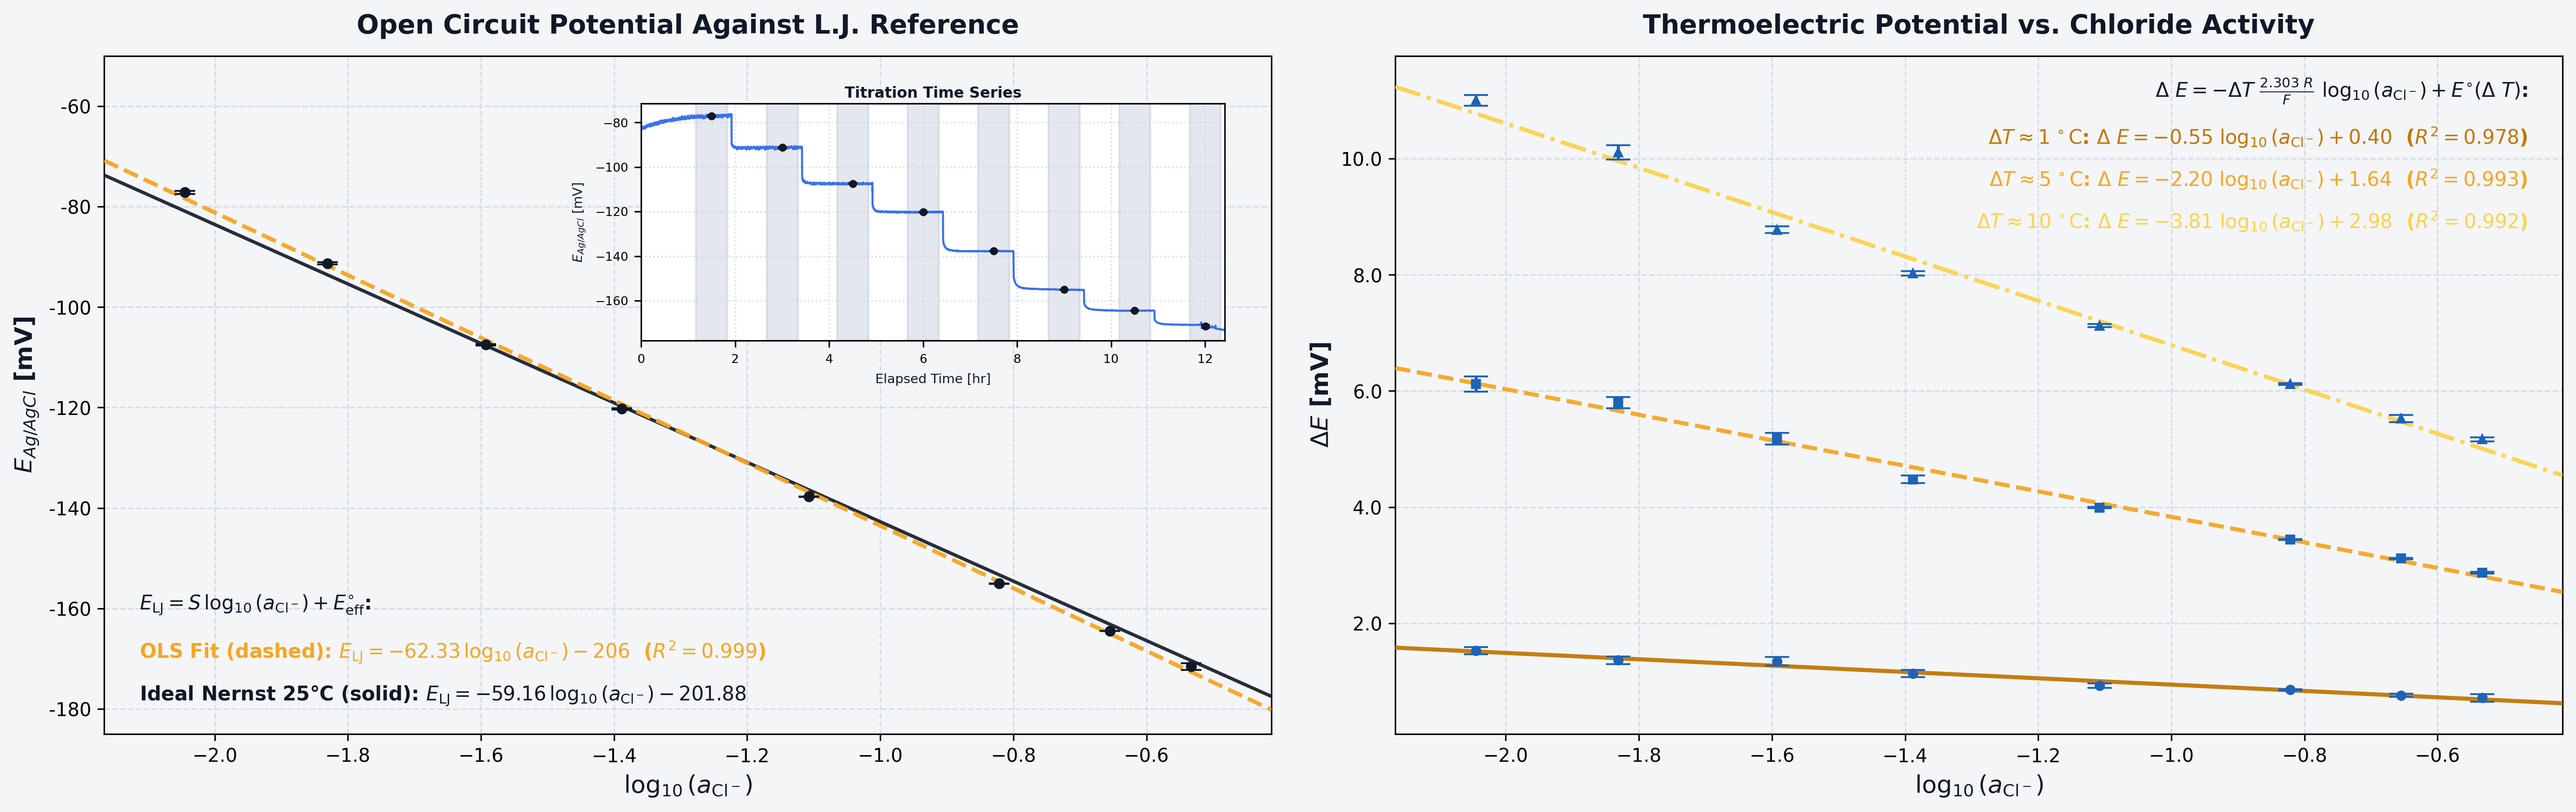
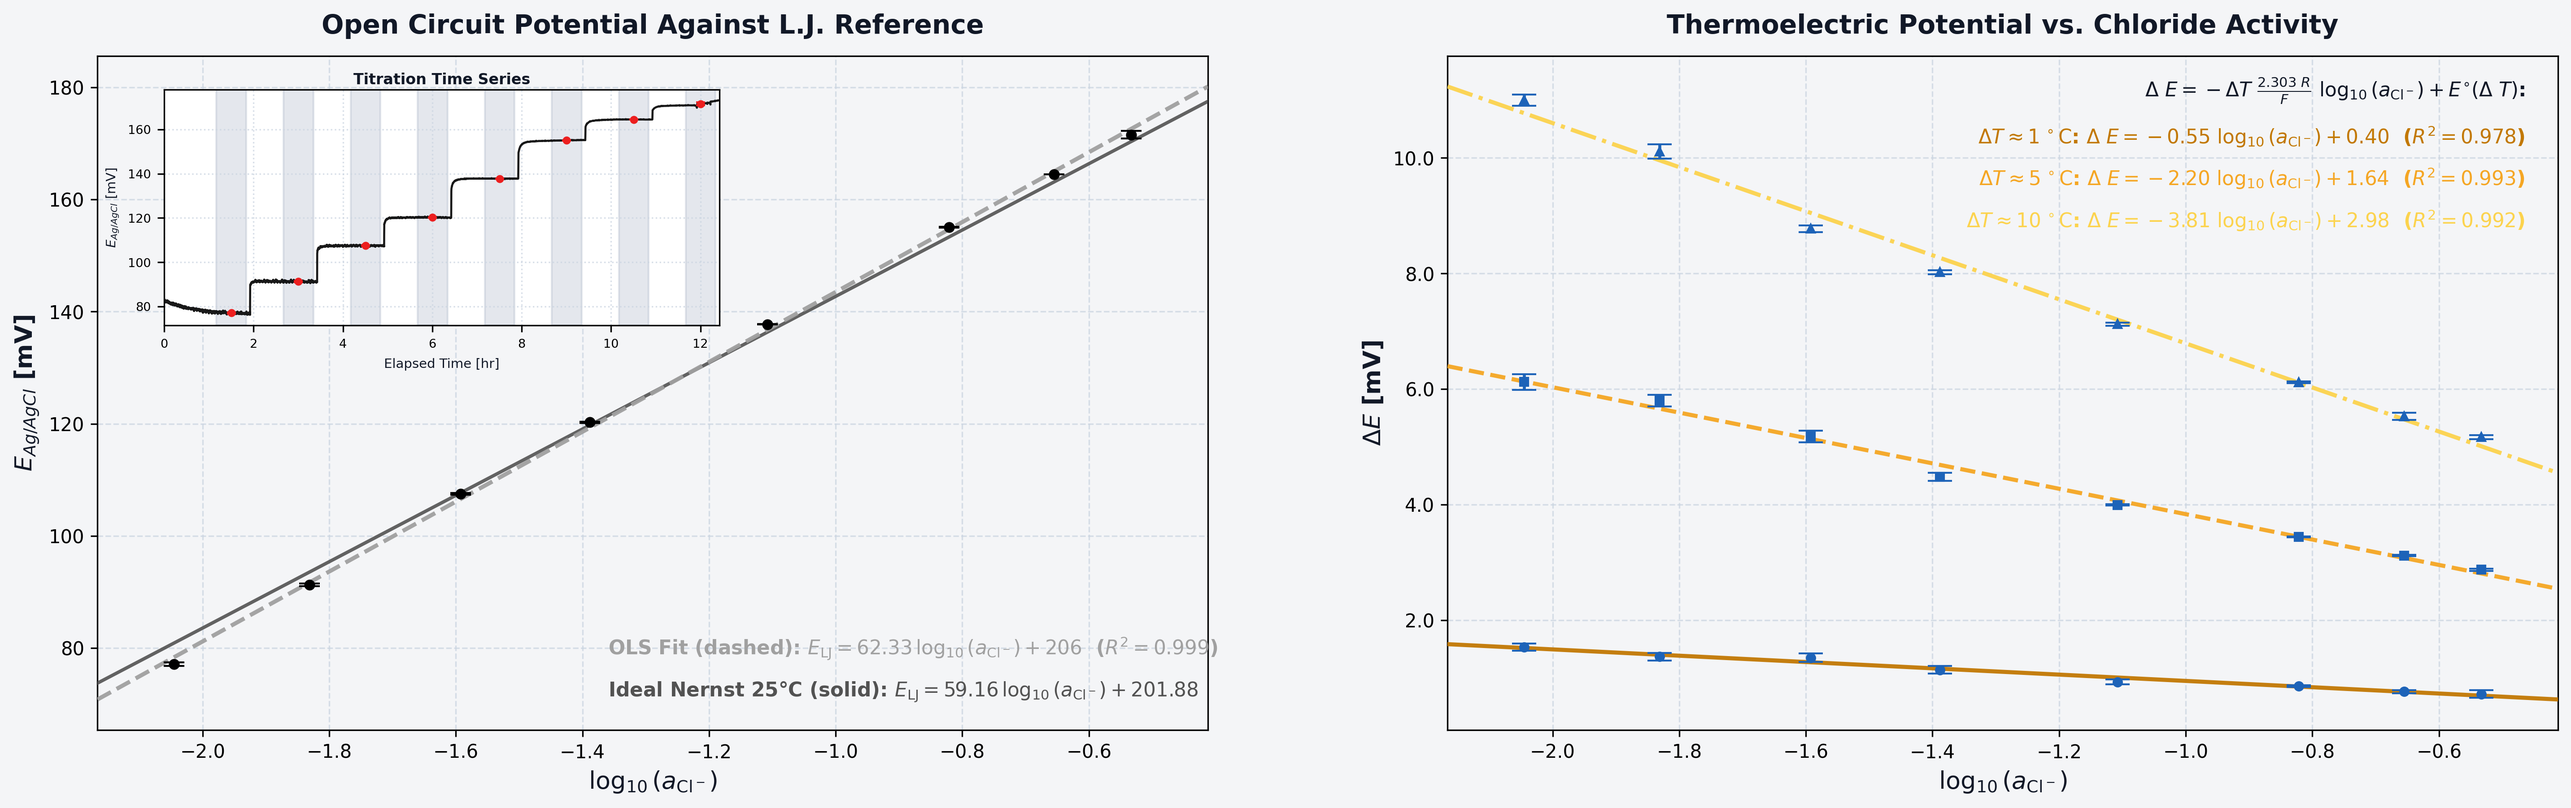
working on F3

diff --git a/Figure 3 - Chloride Response/plot_thermo_and_LJ_sensitivity.py b/Figure 3 - Chloride Response/plot_thermo_and_LJ_sensitivity.py
@@ -16,7 +16,7 @@ METRICS_JSON_PATH = "all_pulse_metrics.json"
 OUTPUT_DELTA_E_PNG = "delta_e_and_lj_cp_vs_log_activity.png"
 
 # Invert L.J. CP signal sign to correct for experimental setup polarity
-INVERT_LJ_CP_SIGN = True
+INVERT_LJ_CP_SIGN = False
 
 # Step Selection Toggle:
 # - Range tuple (start, end): e.g., (0, 7) (inclusive)
@@ -38,7 +38,7 @@ STEP_AVG_WINDOW_OVERRIDES: Dict[int, Tuple[float, float]] = {
 
 # Axis limits for L.J. CP Nernst subplot (Set to None for automatic scaling)
 LJ_CP_X_LIMITS = None  # e.g., (-2.2, -0.2)
-LJ_CP_Y_LIMITS = (-185, -50)  # e.g., (-250, -50)
+LJ_CP_Y_LIMITS = None #(-180, -70)  # e.g., (-250, -50)
 
 # Axis limits for continuous L.J. CP Time-Series inset (Set to None for auto)
 LJ_CP_TS_X_LIMITS = None  # Continuous titration elapsed time [hr]
@@ -60,7 +60,7 @@ T_AMBIENT_C = 25.0       # Reference ambient temperature for Bates & Bower E^0(T
 
 # Theoretical Nernstian Slope at 25 °C for Cl- (monovalent anion: z = -1)
 # Slope = (2.3026 * R * T) / (z * F) = -59.16 mV / log10(a_Cl-)
-NERNST_SLOPE_25C = -59.16
+NERNST_SLOPE_25C = 59.16
 
 SERIES_ORDER = ["1C", "5C", "10C"]
 
@@ -481,10 +481,10 @@ def plot_lj_cp_subplot(
             avg_cp,
             yerr=std_cp,
             fmt="o",
-            color="#111827",
-            ecolor="#111827",
-            markerfacecolor=mfc,
-            markeredgecolor="#111827",
+            color="#000000",
+            ecolor="#000000",
+            markerfacecolor="#000000",
+            markeredgecolor="#000000",
             markeredgewidth=1.0,
             elinewidth=1.5,
             capsize=5.5,
@@ -498,8 +498,8 @@ def plot_lj_cp_subplot(
         y_fit = slope * x_fit + intercept
         y_ideal = NERNST_SLOPE_25C * x_fit + ideal_intercept
 
-        fit_color = "#F5A623"
-        ideal_color = "#111827"
+        fit_color = "#A0A0A0"
+        ideal_color = "#525252"
 
         ax.plot(
             x_fit,
@@ -522,7 +522,7 @@ def plot_lj_cp_subplot(
         )
 
         # Bottom-left bold text annotations
-        box_x, box_y_bottom = 0.03, 0.04
+        box_x, box_y_bottom = 0.46, 0.04 #0.46, 0.58 upper right
         line_spacing = 0.062
         sign_str = "+" if intercept >= 0 else "-"
         ideal_sign_str = "+" if ideal_intercept >= 0 else "-"
@@ -539,17 +539,17 @@ def plot_lj_cp_subplot(
             ),
         ]
 
-        ax.text(
-            box_x,
-            box_y_bottom + len(lj_annotations) * line_spacing + 0.01,
-            rf"$E_{{\mathrm{{LJ}}}} = S\,{x_label_str.strip('$')} + E^{{\circ}}_{{\mathrm{{eff}}}}$:",
-            transform=ax.transAxes,
-            fontsize=10.5,
-            fontweight="bold",
-            color="#111827",
-            va="bottom",
-            ha="left",
-        )
+        # ax.text(
+        #     box_x,
+        #     box_y_bottom + len(lj_annotations) * line_spacing + 0.01,
+        #     rf"$E_{{\mathrm{{LJ}}}} = S\,{x_label_str.strip('$')} + E^{{\circ}}_{{\mathrm{{eff}}}}$:",
+        #     transform=ax.transAxes,
+        #     fontsize=10.5,
+        #     fontweight="bold",
+        #     color="#111827",
+        #     va="bottom",
+        #     ha="left",
+        # )
 
         for idx, (txt_color, eq_text) in enumerate(lj_annotations):
             y_pos = box_y_bottom + (len(lj_annotations) - 1 - idx) * line_spacing
@@ -573,10 +573,10 @@ def plot_lj_cp_subplot(
         ax.set_ylim(LJ_CP_Y_LIMITS)
 
     # ==========================================
-    # Inset Window (Top Right): Full Continuous Titration L.J. CP Time Series [hr]
+    # Inset Window: Full Continuous Titration L.J. CP Time Series [hr]
     # ==========================================
     if SHOW_TS_INSET and not df_titration.empty:
-        ax_inset = ax.inset_axes([0.46, 0.58, 0.5, 0.35])
+        ax_inset = ax.inset_axes([0.06, 0.60, 0.5, 0.35])
         ax_inset.set_facecolor("#ffffff")
 
         avg_times_hr = []
@@ -609,7 +609,7 @@ def plot_lj_cp_subplot(
         ax_inset.plot(
             df_titration["elapsed_total_hr"],
             df_titration["L.J. CP"],
-            color="#2563EB",
+            color="#000000",
             linestyle="-",
             linewidth=1.1,
             alpha=0.9,
@@ -618,16 +618,16 @@ def plot_lj_cp_subplot(
 
         # Averaged points (black, matching the main plot)
         if avg_times_hr:
-            inset_mfc = "#ffffff" if hollow_markers else "#111827"
+            inset_mfc = "#ffffff" if hollow_markers else "#EC1F1F"
             ax_inset.errorbar(
                 avg_times_hr,
                 avg_vals_mv,
                 yerr=avg_stds_mv,
                 fmt="o",
-                color="#111827",
-                ecolor="#111827",
+                color="#EC1F1F",
+                ecolor="#EC1F1F",
                 markerfacecolor=inset_mfc,
-                markeredgecolor="#111827",
+                markeredgecolor="#EC1F1F",
                 markeredgewidth=0.9,
                 elinewidth=1.0,
                 capsize=2.5,
